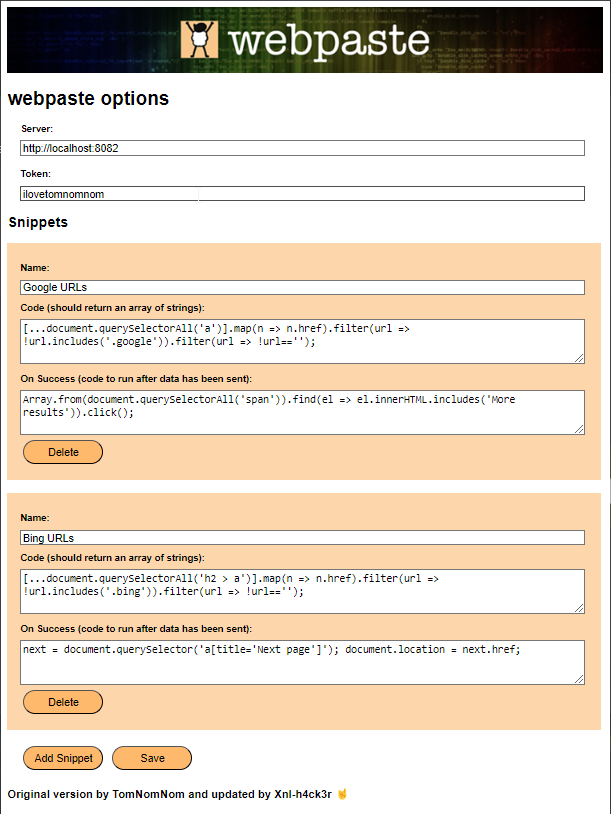
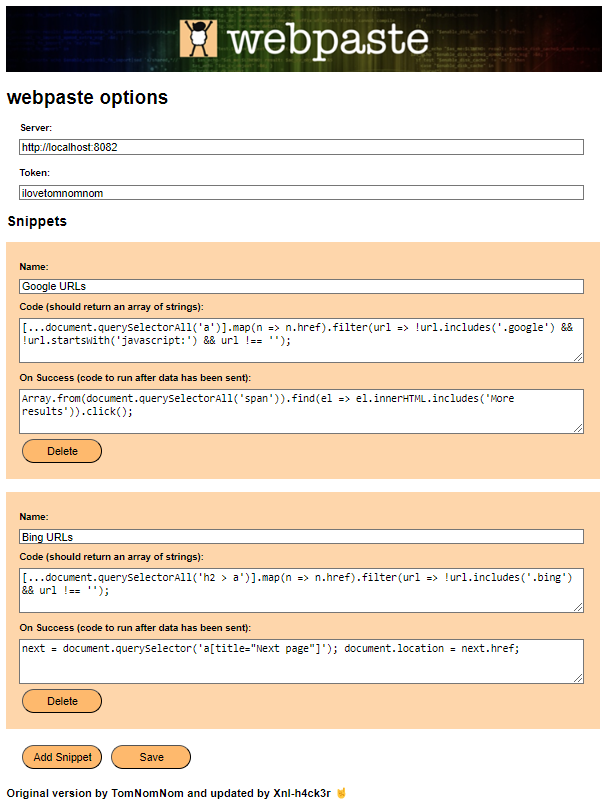
v2.1 - see CHANGELOG

diff --git a/chrome/options.js b/chrome/options.js
@@ -4,6 +4,16 @@ var add = document.getElementById("add");
 var save = document.getElementById("save");
 let snippets = document.getElementById("snippets");
 
+// Snippet examples
+googleSnippet =
+  "[...document.querySelectorAll('a')].map(n => n.href).filter(url => !url.includes('.google') && !url.startsWith('javascript:') && url !== '');";
+googlePostSnippet =
+  "Array.from(document.querySelectorAll('span')).find(el => el.innerHTML.includes('More results')).click();";
+bingSnippet =
+  "[...document.querySelectorAll('h2 > a')].map(n => n.href).filter(url => !url.includes('.bing') && url !== '');";
+bingPostSnippet =
+  "next = document.querySelector('a[title=\"Next page\"]'); document.location = next.href;";
+
 function saveSettings() {
   let snipData = [...snippets.querySelectorAll("div.snippet")]
     .map((el) => {
@@ -45,15 +55,13 @@ chrome.storage.sync.get("config", function (data) {
       snippets: [
         {
           name: "Google URLs",
-          code: "[...document.querySelectorAll('a')].map(n => n.href).filter(url => !url.includes('.google')).filter(url => !url=='');",
-          onsuccess:
-            "Array.from(document.querySelectorAll('span')).find(el => el.innerHTML.includes('More results')).click();",
+          code: googleSnippet,
+          onsuccess: googlePostSnippet,
         },
         {
           name: "Bing URLs",
-          code: "[...document.querySelectorAll('h2 > a')].map(n => n.href).filter(url => !url.includes('.bing')).filter(url => !url=='');",
-          onsuccess:
-            "next = document.querySelector('a[title='Next page']'); document.location = next.href;",
+          code: bingSnippet,
+          onsuccess: bingPostSnippet,
         },
       ],
     };

diff --git a/README.md b/README.md
@@ -1,6 +1,6 @@
 <center><img src="https://github.com/xnl-h4ck3r/webpaste/blob/main/images/title.png"></center>
 
-## About - v2.0
+## About - v2.1
 
 Where is v1.0 you might say?! If you aren't aware of `webpaste` already, it is a tool by [@TomNomNom](https://twitter.com/tomnomnom) that can be found [here](https://github.com/tomnomnom/hacks/tree/master/webpaste).
 

diff --git a/CHANGELOG.md b/CHANGELOG.md
@@ -1,0 +1,12 @@
+## Changelog
+
+- v2.1
+
+  - Changed
+
+    - Improve the Google and Bing "Code" javascript snippets to also filter out links starting with `javascript:`.
+    - Fix the Bing "On Success" javascript snippet.
+
+- v2.0
+
+  - Initial release
